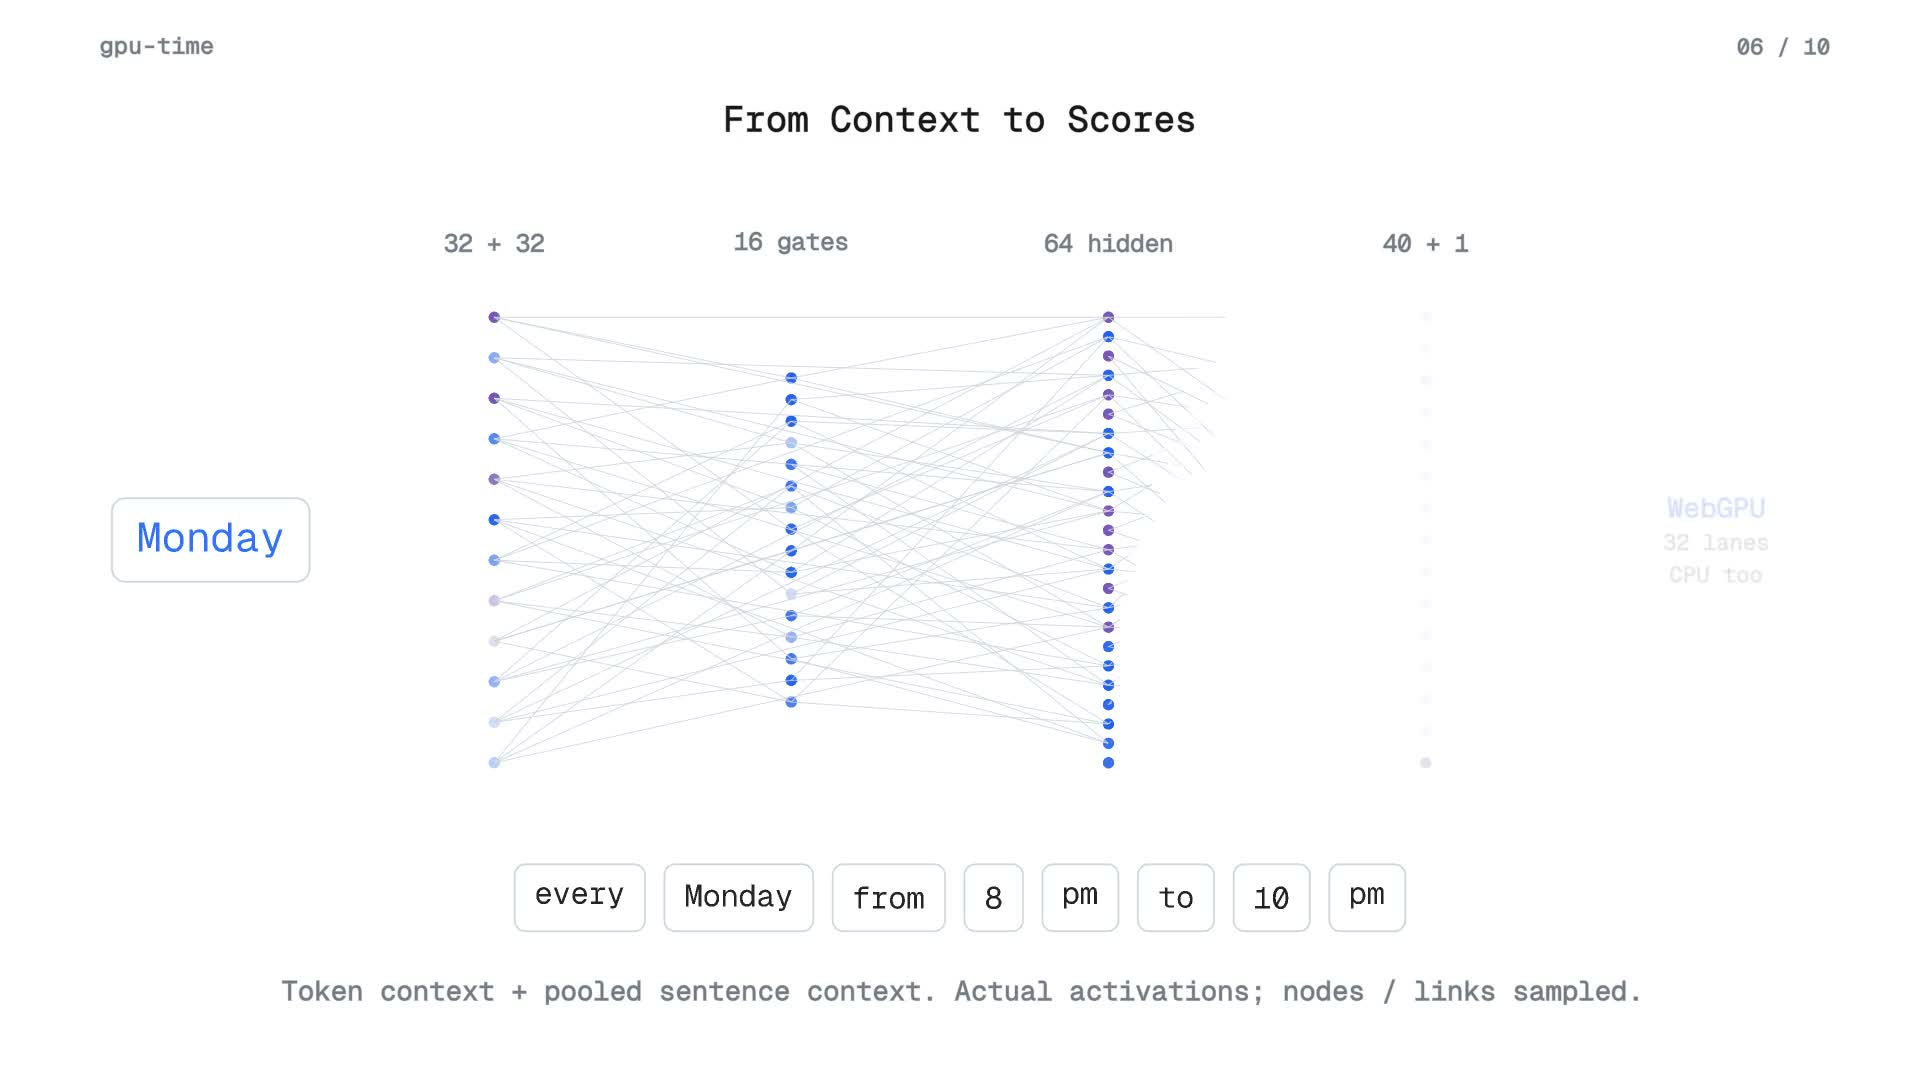
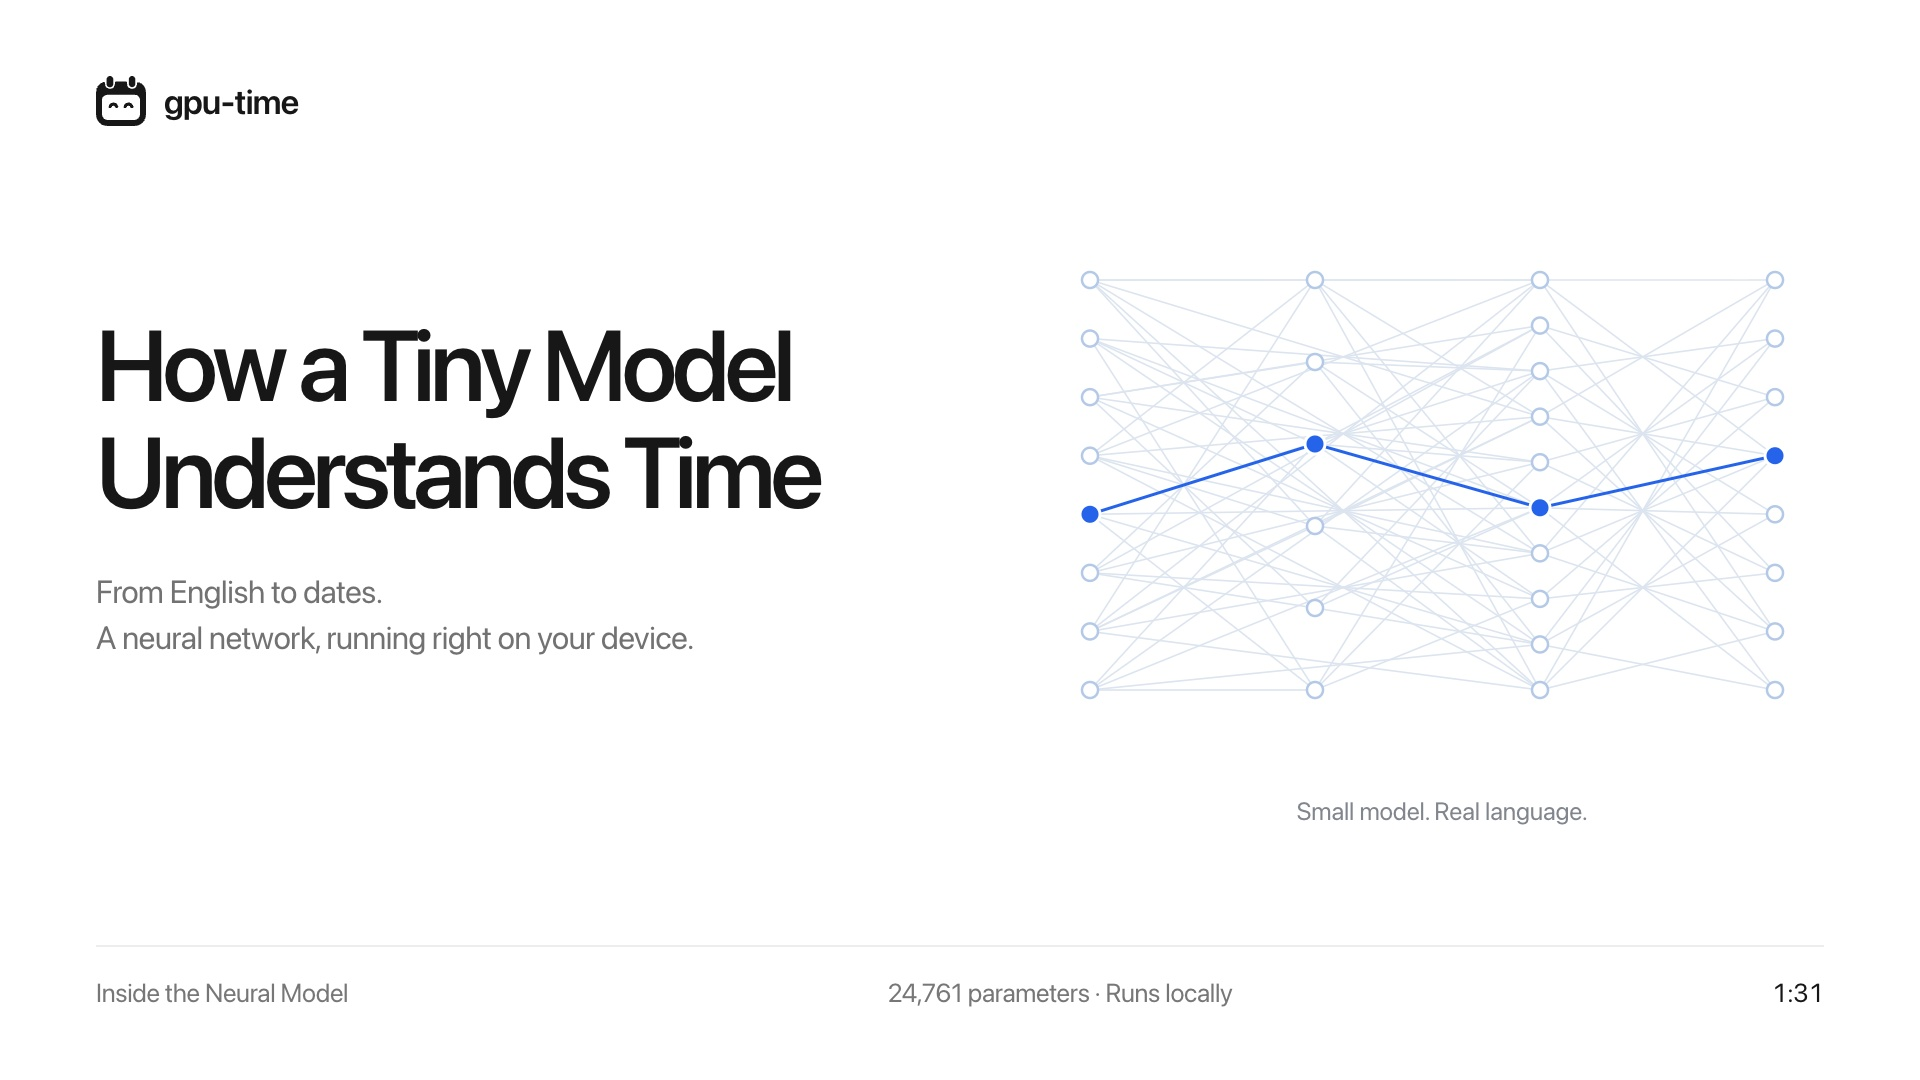
chore: build the video poster from html artwork

diff --git a/landing/artwork/thumbnail.html b/landing/artwork/thumbnail.html
@@ -1,0 +1,48 @@
+<!doctype html>
+<html lang="en">
+<head>
+<meta charset="utf-8" />
+<title>gpu-time Video Thumbnail</title>
+<style>
+  * { box-sizing: border-box; }
+  body { margin: 0; width: 1920px; height: 1080px; overflow: hidden; background: #fff; color: #171717; font-family: -apple-system, BlinkMacSystemFont, "Segoe UI", sans-serif; -webkit-font-smoothing: antialiased; }
+  .brand { position: absolute; left: 96px; top: 76px; display: flex; align-items: center; gap: 18px; font-size: 34px; font-weight: 600; letter-spacing: -1px; }
+  .brand svg { width: 50px; height: 50px; }
+  h1 { position: absolute; left: 96px; top: 310px; width: 840px; text-align: left; margin: 0; font-size: 100px; line-height: 1.07; font-weight: 560; letter-spacing: -5px; }
+  h1 span { display: block; }
+  .description { position: absolute; left: 96px; top: 568px; width: 840px; text-align: left; margin: 0; color: #727272; font-size: 32px; line-height: 1.45; letter-spacing: -.7px; }
+  .network { position: absolute; top: 180px; right: 75px; width: 810px; height: 610px; }
+  .network-label { position: absolute; top: 796px; right: 128px; width: 700px; text-align: center; font-size: 25px; color: #81858d; letter-spacing: -.3px; }
+  footer { position: absolute; left: 96px; right: 96px; bottom: 73px; border-top: 2px solid #ededed; padding-top: 30px; display: flex; justify-content: space-between; align-items: center; font-size: 26px; letter-spacing: -.5px; color: #777; }
+  .duration { font-variant-numeric: tabular-nums; color: #171717; }
+</style>
+</head>
+<body>
+  <div class="brand"><!-- LOGO -->gpu-time</div>
+  <h1><span>How a Tiny Model</span><span>Understands Time</span></h1>
+  <p class="description">From English to dates.<br />A neural network, running right on your device.</p>
+  <svg class="network" viewBox="0 0 810 610" fill="none" aria-label="Simplified neural network"></svg>
+  <div class="network-label">Small model. Real language.</div>
+  <footer><span>Inside the Neural Model</span><span><span id="model-size">24,761 parameters</span> · Runs locally</span><span class="duration">1:31</span></footer>
+  <script>
+    // A schematic of the output head; no invented weights or activation values.
+    const svg = document.querySelector('.network');
+    const layers = [{x:55,n:8}, {x:280,n:6}, {x:505,n:10}, {x:740,n:8}];
+    const points = layers.map(({x,n}) => Array.from({length:n},(_,i)=>({x,y:100+i*410/(n-1)})));
+    const node = (tag, attributes) => {
+      const element = document.createElementNS('http://www.w3.org/2000/svg',tag);
+      Object.entries(attributes).forEach(([key,value])=>element.setAttribute(key,String(value)));
+      svg.append(element);
+    };
+    for (const [from,to] of [[0,1],[0,2],[1,2],[2,3]]) {
+      points[from].forEach((a,i)=>points[to].forEach((b,j)=>{
+        if ((i+j)%3===0) node('path',{d:`M${a.x} ${a.y} L${b.x} ${b.y}`,stroke:'#dce4ef','stroke-width':1.6});
+      }));
+    }
+    const route=[points[0][4],points[1][2],points[2][5],points[3][3]];
+    route.slice(1).forEach((point,i)=>node('path',{d:`M${route[i].x} ${route[i].y} L${point.x} ${point.y}`,stroke:'#2563eb','stroke-width':3}));
+    points.flat().forEach(point=>node('circle',{cx:point.x,cy:point.y,r:8,fill:'#fff',stroke:'#b4c8e7','stroke-width':2.5}));
+    route.forEach(point=>node('circle',{cx:point.x,cy:point.y,r:10,fill:'#2563eb',stroke:'#fff','stroke-width':3}));
+  </script>
+</body>
+</html>

diff --git a/landing/README.md b/landing/README.md
@@ -37,7 +37,14 @@ The white-background film includes newly generated synthetic narration and timed
 English captions. The original music and effect synthesis is adapted to the new scene timings.
 
 Run `npm run prepare:video` to copy the completed film and regenerate its poster
-and captions. Requires FFmpeg and the rendered current film. Included public
-media allow normal site builds without video-production tools.
+and captions. Requires the rendered current film, Chrome, and the root Playwright
+dependency. Included public media allow normal site builds without production tools.
 
 Page headings and video titles use Chicago headline-style capitalization.
+
+## Thumbnail
+
+`artwork/thumbnail.html` is the editable HTML/CSS source. Run
+`npm run prepare:thumbnail` to export 1920×1080 PNG and JPEG versions to
+`public/media/poster.*`. The export uses the existing logo and selected model's
+parameter count. The player uses JPEG; PNG is available for sharing.
